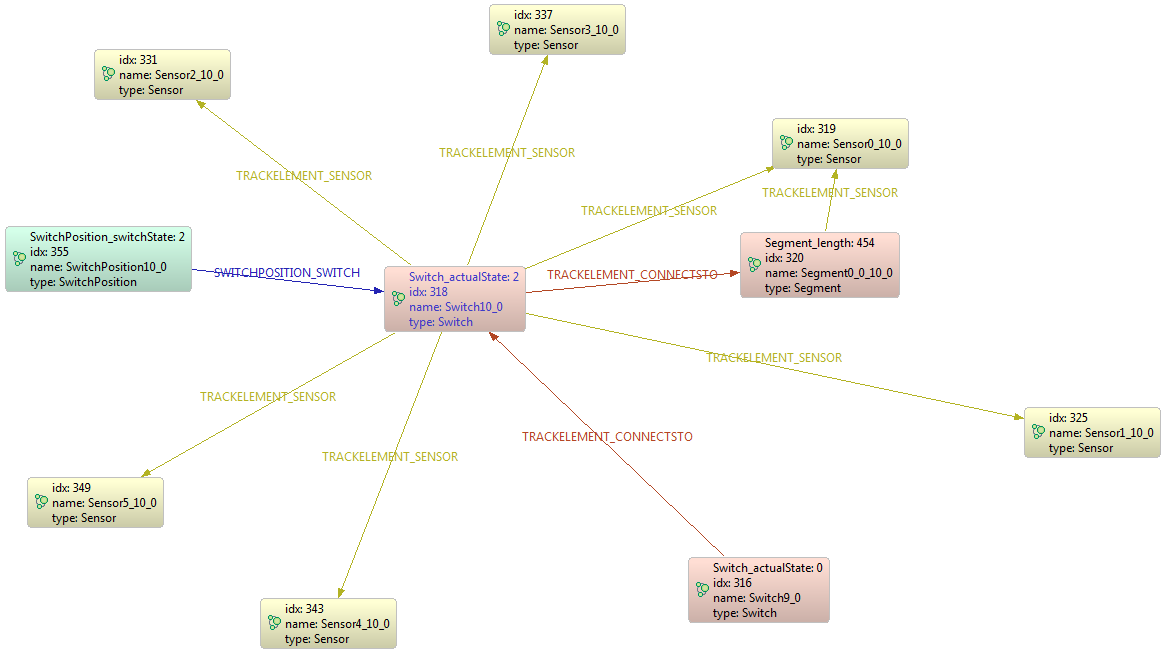
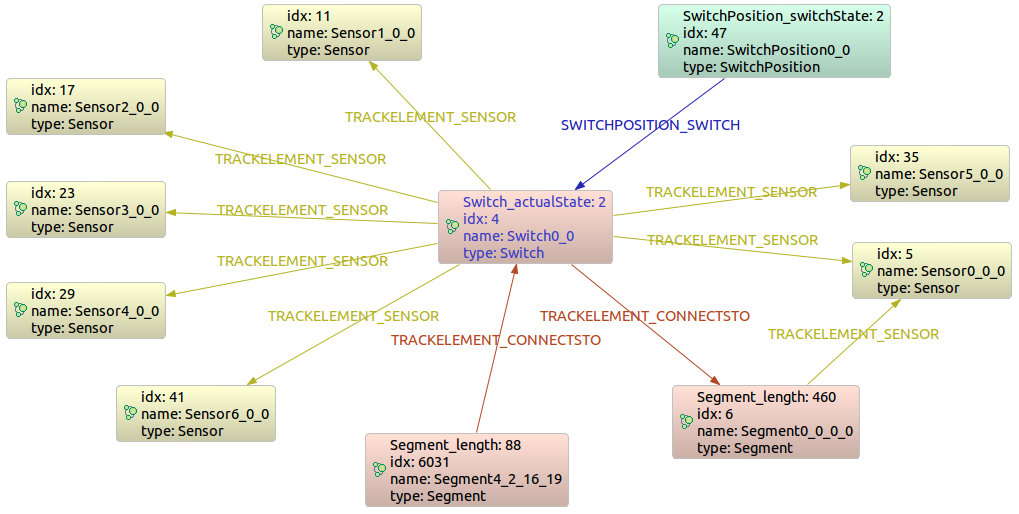
new neoclipse fig, refactoring, some topic sentences and text
git-svn-id: https://svn.inf.mit.bme.hu/projects/ontology/source/incqueryd@929 25365000-b138-4714-a2de-83ea935fac61

diff --git a/szarnyasg-incqueryd-tdk/src/overview-indexing.tex b/szarnyasg-incqueryd-tdk/src/overview-indexing.tex
@@ -1,9 +1,13 @@
-\section{Middleware}
-\label{sec:middleware}
+\section{Initialization and indexing}
+\label{sec:indexing}
 
 \subsection{Indexing}
 
-common technique for efficient query executing
+Indexing is a common technique for decreasing the execution time of database queries. \iqd{}'s ..
+
+\emph{Model indexing} is the key to high performance model queries. As MDE primarily uses a metamodeling infrastructure, the \iqd{} middleware maintains type-instance indexes so that all instances of a given type (both edges and graph nodes) can be enumerated quickly.
+
+indexing happens in the rete nets 
 
 \subsection{Graph-like data manipulation}
 
@@ -11,6 +15,7 @@ modifications, transformations, ?
 
 \subsection{Notification mechanisms}
 
+maintain rete
 
 \subsubsection{Current database managment systems}
 
@@ -22,9 +27,8 @@ The proposed system is based on a distributed database management system.
 
 %In recent years, along long standing relational database management systems, dozens of new database systems sprung to life. This systems are often called NoSQL (short for not only SQL) databases. These systems are often specialized to serve a specific aspect of Web 2.0 applications. To do so, they provide a non-relational data model and weaker consistency guarantees, but offer higher availability and better scalability.
 
-In contrast to a traditional setup, where the distributed model repository (consisting of four shards in the example) is accessed on a per-node basis by a model manipulation transaction (such as a model transformation benchmark, depicted as $T_{BM}$ in \figref{architecture}), \iqd{} provides a middleware layer that offers three core services (shown in green in \figref{architecture}).
-In \emph{distributed model management}, the primary task is to provide a \emph{surrogate key} mechanism so that each model element in the entire distributed repository can be uniquely identified, and located within storage shards.
-\emph{Model indexing} is the key to high performance model queries. As MDE primarily uses a metamodeling infrastructure, the \iqd{} middleware maintains type-instance indexes so that all instances of a given type (both edges and graph nodes) can be enumerated quickly.
+%In contrast to a traditional setup, where the distributed model repository is accessed on a per-node basis by a model manipulation transaction (such as a model transformation benchmark, depicted as $T_{BM}$ in \figref{architecture}), \iqd{} provides a middleware layer that offers three core services (shown in green in \figref{architecture}).
+%In \emph{distributed model management}, the primary task is to provide a \emph{surrogate key} mechanism so that each model element in the entire distributed repository can be uniquely identified, and located within storage shards.
 
 \emph{Model change notifications} are required by incremental query evaluation, thus model changes are captured and their effects propagated in the form of \emph{notification objects} (NOs). The middleware layer achieves this by providing a facade for model manipulation operations. 
 

diff --git a/szarnyasg-incqueryd-tdk/src/background-technologies.tex b/szarnyasg-incqueryd-tdk/src/background-technologies.tex
@@ -72,7 +72,7 @@ The MapReduce paradigm defines a parallel, asynchronous way of processing the da
 
 A typical small Hadoop cluster consists of a single master node which is responsible for the coordination of the cluster and worker nodes which deal with the data processing. The MapReduce job is coordinated by the master's \emph{job tracker} and processed by the slave nodes' \emph{task tracker} modules (\figref{hadoop-architecture}).
 
-\myFigure{hadoop-architecture}{Hadoop's architecture}
+\myFigureSmall{hadoop-architecture}{Hadoop's architecture}
 
 \subsubsection{HDFS}
 
@@ -96,7 +96,7 @@ Neo4j is one of the most mature NoSQL databases. It's well documented and provid
 
 Neo4j is capable of loading graphs from GraphML~\cite{GraphML} and Blueprints GraphSON~\cite{BlueprintsGraphSON} formats. Neo4j graphs can be visualized in Neoclipse, an Eclipse RCP application~\cite{Neoclipse}. A part of a \tb{} (\autoref{sec:trainbenchmark}) instance model is shown on \figref{neoclipse-graph}.
 
-\myFigure{neoclipse-graph}{\tb subgraph visualized in Neoclipse}
+\myFigure{neoclipse-graph}{\tb{} subgraph visualized in Neoclipse}
 
 %\myFigure{neo4j-logo}{The logo of Neo4j}
 
@@ -172,10 +172,10 @@ Eclipse is a free, open-source software development environment and a platform f
 
 Eclipse comes with its own modeling technologies called EMF (Eclipse Modeling Framework). EMF provides a metamodel (Ecore) for designing applications and a code generation facility to produce the Java classes for the model.
 
-\subsection{\eiq}
+\subsection{\eiq{}}
 \label{subsec:eiq}
 
-\eiq\ is developed by the Fault Tolerant Systems Research Group (FTSRG) in the Budapest University of Technology and Economics. \eiq is an open-source Eclipse project which provides incremental query evaluation on EMF models. The queries (graph patterns) are defined in IncQuery Pattern Language (IQPL), a domain-specific language implemented in Xtext and Xtend. \eiq's architecture is shown on \figref{incquery-architecture}.
+\eiq{}\ is developed by the Fault Tolerant Systems Research Group (FTSRG) in the Budapest University of Technology and Economics. \eiq is an open-source Eclipse project which provides incremental query evaluation on EMF models. The queries (graph patterns) are defined in IncQuery Pattern Language (IQPL), a domain-specific language implemented in Xtext and Xtend. \eiq's architecture is shown on \figref{incquery-architecture}.
 
 \myFigure{incquery-architecture}{\eiq's architecture}
 

diff --git a/szarnyasg-incqueryd-tdk/src/evaluation.tex b/szarnyasg-incqueryd-tdk/src/evaluation.tex
@@ -7,7 +7,7 @@
 % lifted from thesis work
 \subsection{Phases}
 
-The \tb consists of the following phases:
+The \tb{} consists of the following phases:
 
 \begin{enumerate}
   \item $\mathit{read}$: loading the model,
@@ -17,8 +17,6 @@ The \tb consists of the following phases:
 \end{enumerate}
 
 In a ''real-world'' model editing sequence, the user tipically edits the model in small steps ($\mathit{edit}_i$ phases). The user's work is much more productive if she receives an instant feedback, hence we would like to run re-evaluate well-formedness queries quickly (preferably in sub-second time). This creates the need for an incremental pattern matcher tools.
-
-
 
 \subsection{Measure the response time and the scalability}
 

diff --git a/szarnyasg-incqueryd-tdk/src/command-definitions.tex b/szarnyasg-incqueryd-tdk/src/command-definitions.tex
@@ -9,7 +9,7 @@
 	\end{figure}}
 
 \newcommand{\myFigureSmall}[2]{
-	\begin{figure}[!ht]
+	\begin{figure}%[!ht]
 		\centering
 		\begin{adjustbox}{max size={0.6\textwidth}{\textheight}}
 			\includegraphics[scale=1.0]{figures/#1}
@@ -35,3 +35,4 @@
 
 %\newcommand{\kiskep}[2]{
 	%\includegraphics[width=#2, keepaspectratio]{img/#1}}
+	

diff --git a/szarnyasg-incqueryd-tdk/src/overview.tex b/szarnyasg-incqueryd-tdk/src/overview.tex
@@ -9,7 +9,7 @@ The primary goal of \iqd{} is to provide a scalable architecture for executing i
 
 \input{overview-architecture}
 
-\input{overview-middleware}
+\input{overview-indexing}
 
 \input{overview-incrementality}
 
